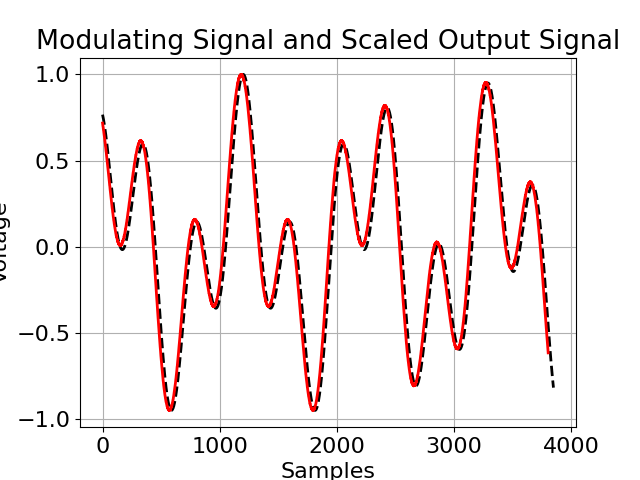
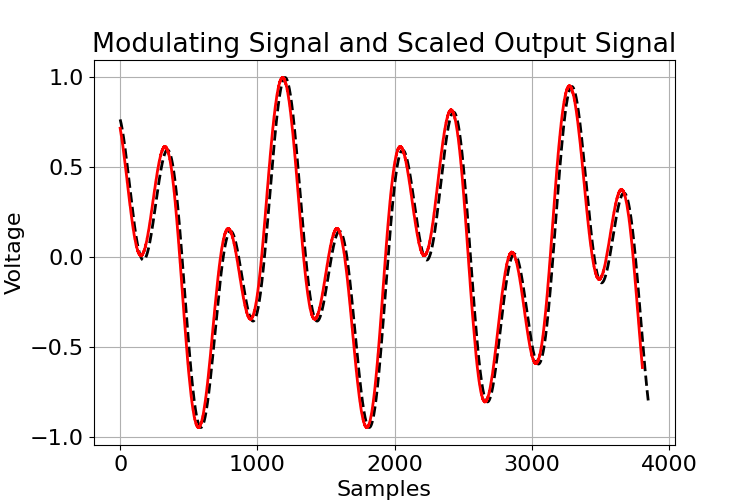
Change plot size to make "Voltage" label visible

diff --git a/demodulator_nfm/demodulator_testbench.py b/demodulator_nfm/demodulator_testbench.py
@@ -194,7 +194,7 @@ plt.grid()
 plt.savefig("results/" + "raw_" + figure_name)
 
 
-plt.figure()
+plt.figure(figsize=(7.5, 5))
 plt.plot(modulation_signal[CUT_SAMPLES_CNT:], "--", color="black")
 plt.plot(scaled_output[discriminator_delay:], color="red")
 plt.title("Modulating Signal and Scaled Output Signal")
